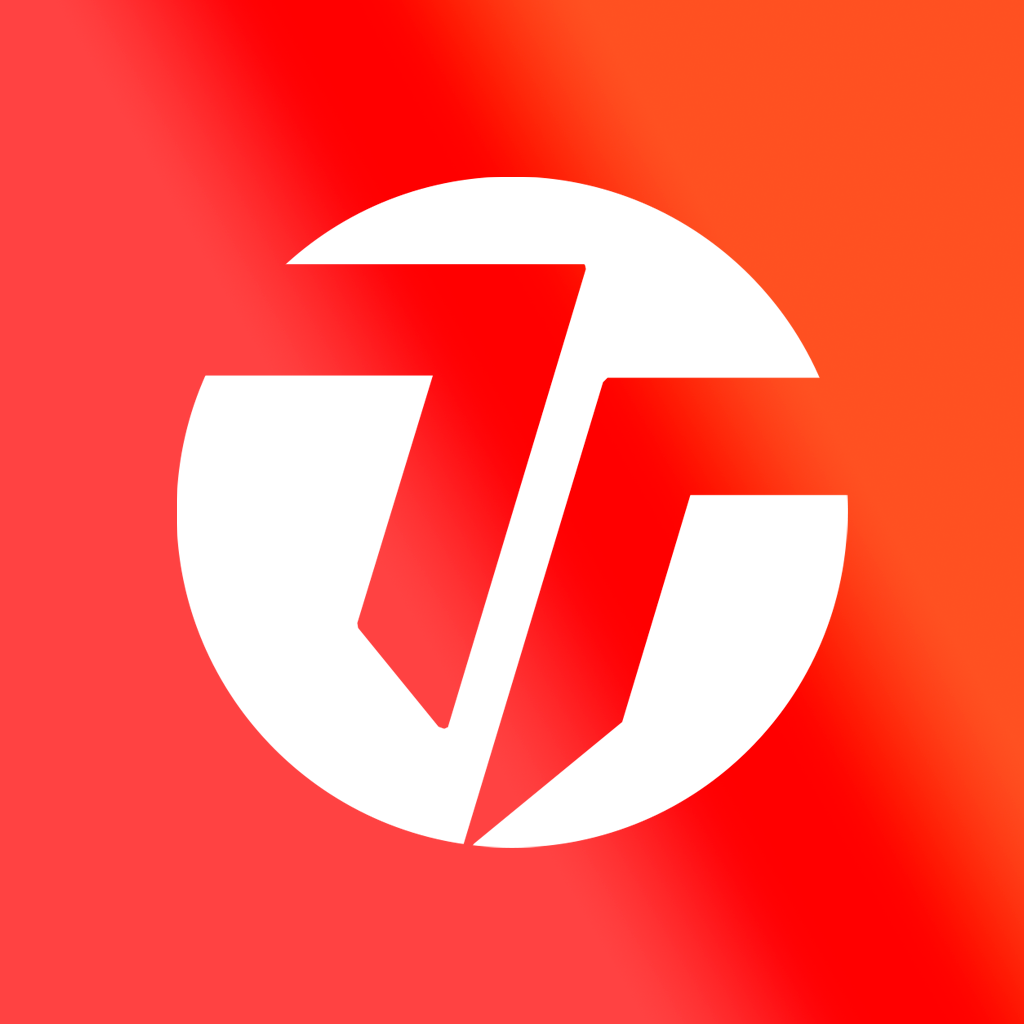
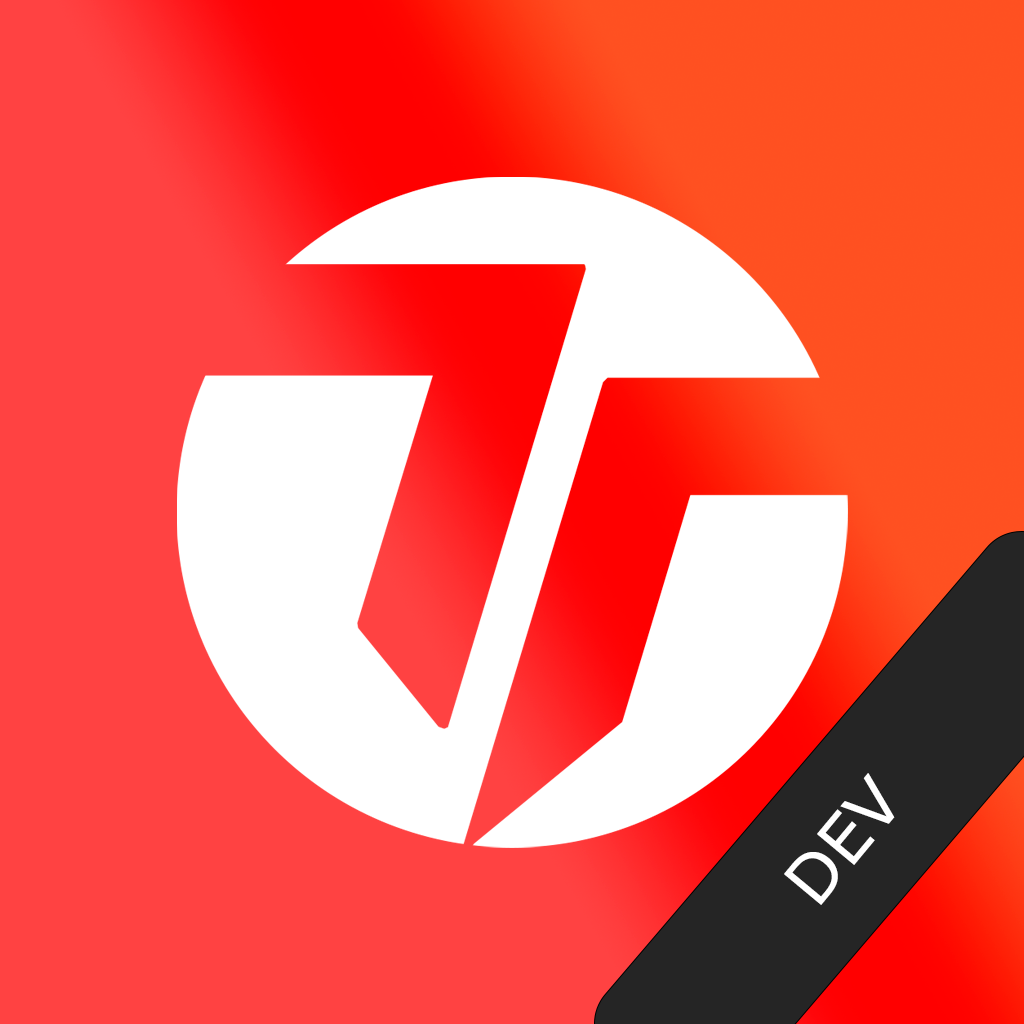
errors

Changed region(s): [[0.5625, 0.5, 1.0, 1.0]]

diff --git a/src/shared/utils/errorUtils.ts b/src/shared/utils/errorUtils.ts
@@ -31,7 +31,20 @@ export enum ErrorCode {
   VALIDATION_PASSWORD_TOO_SHORT = 'VALIDATION_PASSWORD_TOO_SHORT',
   VALIDATION_PASSWORD_TOO_WEAK = 'VALIDATION_PASSWORD_TOO_WEAK',
 
+  // File Upload
+  FILE_NOT_FOUND = 'FILE_NOT_FOUND',
+  FILE_UPLOAD_FAILED = 'FILE_UPLOAD_FAILED',
+  FILE_DELETE_FAILED = 'FILE_DELETE_FAILED',
+  FILE_ACCESS_DENIED = 'FILE_ACCESS_DENIED',
+  FILE_INVALID_TYPE = 'FILE_INVALID_TYPE',
+  FILE_TOO_LARGE = 'FILE_TOO_LARGE',
+  FILE_NO_FILE_PROVIDED = 'FILE_NO_FILE_PROVIDED',
+  FILE_INVALID_FORMAT = 'FILE_INVALID_FORMAT',
+  FILE_THUMBNAIL_NOT_AVAILABLE = 'FILE_THUMBNAIL_NOT_AVAILABLE',
+
   // General
+  AUTH_UNAUTHORIZED = 'AUTH_UNAUTHORIZED',
+  BAD_REQUEST = 'BAD_REQUEST',
   INTERNAL_SERVER_ERROR = 'INTERNAL_SERVER_ERROR',
   USER_NOT_FOUND = 'USER_NOT_FOUND',
 }
@@ -62,7 +75,20 @@ const errorMessages: Record<ErrorCode, string> = {
   [ErrorCode.VALIDATION_PASSWORD_TOO_SHORT]: 'Пароль слишком короткий',
   [ErrorCode.VALIDATION_PASSWORD_TOO_WEAK]: 'Пароль слишком слабый. Используйте буквы, цифры и специальные символы.',
 
+  // File Upload
+  [ErrorCode.FILE_NOT_FOUND]: 'Файл не найден',
+  [ErrorCode.FILE_UPLOAD_FAILED]: 'Не удалось загрузить файл. Попробуйте еще раз.',
+  [ErrorCode.FILE_DELETE_FAILED]: 'Не удалось удалить файл',
+  [ErrorCode.FILE_ACCESS_DENIED]: 'Доступ к файлу запрещен',
+  [ErrorCode.FILE_INVALID_TYPE]: 'Недопустимый тип файла',
+  [ErrorCode.FILE_TOO_LARGE]: 'Файл слишком большой',
+  [ErrorCode.FILE_NO_FILE_PROVIDED]: 'Файл не выбран',
+  [ErrorCode.FILE_INVALID_FORMAT]: 'Неверный формат файла',
+  [ErrorCode.FILE_THUMBNAIL_NOT_AVAILABLE]: 'Миниатюра недоступна',
+
   // General
+  [ErrorCode.AUTH_UNAUTHORIZED]: 'Требуется авторизация',
+  [ErrorCode.BAD_REQUEST]: 'Неверный запрос',
   [ErrorCode.INTERNAL_SERVER_ERROR]: 'Внутренняя ошибка сервера. Попробуйте позже.',
   [ErrorCode.USER_NOT_FOUND]: 'Пользователь не найден',
 };
@@ -168,4 +194,42 @@ export function requiresPasskeyOnly(error: ApiError): boolean {
  */
 export function isSuperAdminWebOnly(error: ApiError): boolean {
   return isErrorCode(error, ErrorCode.AUTH_SUPER_ADMIN_WEB_ONLY);
+}
+
+/**
+ * Форматировать ошибку загрузки файла с учетом metadata
+ */
+export function formatFileUploadError(error: ApiError): string {
+  const errorCode = extractErrorCode(error);
+  let message = getErrorMessage(errorCode || '');
+
+  // Если есть metadata, добавляем дополнительную информацию
+  if (error.details && typeof error.details === 'object' && 'metadata' in error.details) {
+    const errorResponse = error.details as APIErrorResponse;
+    const metadata = errorResponse.metadata;
+
+    if (metadata) {
+      // Для ошибки FILE_TOO_LARGE показываем максимальный размер
+      if (errorCode === ErrorCode.FILE_TOO_LARGE && metadata.max_size_mb) {
+        message += ` Максимальный размер: ${metadata.max_size_mb} МБ`;
+      }
+
+      // Для ошибки FILE_INVALID_TYPE показываем разрешенные типы
+      if (errorCode === ErrorCode.FILE_INVALID_TYPE && metadata.allowed_types) {
+        const types = Array.isArray(metadata.allowed_types)
+          ? metadata.allowed_types.join(', ')
+          : metadata.allowed_types;
+        message += ` Разрешенные типы: ${types}`;
+      }
+    }
+  }
+
+  // Если есть field errors, показываем первую ошибку
+  const fieldErrors = extractFieldErrors(error);
+  if (fieldErrors.length > 0) {
+    const firstFieldError = fieldErrors[0];
+    message = firstFieldError.message || message;
+  }
+
+  return message;
 }

diff --git a/src/api/fileApi.ts b/src/api/fileApi.ts
@@ -2,6 +2,7 @@ import { API_BASE_URL } from '../shared/constants/api.constants';
 import * as secureStorage from '../shared/utils/secureStorage';
 import { STORAGE_KEYS } from '../shared/constants/app.constants';
 import { Platform } from 'react-native';
+import { ApiError, APIErrorResponse } from '@types/common.types';
 
 export interface FileUploadResponse {
   id: number;
@@ -111,34 +112,64 @@ class FileApi {
             const response = JSON.parse(xhr.responseText);
             resolve(response);
           } catch (error) {
-            reject(new Error('Failed to parse response'));
+            const apiError: ApiError = {
+              message: 'Failed to parse response',
+              status: xhr.status,
+            };
+            reject(apiError);
           }
         } else {
-          // Log full error response
-          console.error('Upload failed:', {
-            status: xhr.status,
-            statusText: xhr.statusText,
-            response: xhr.responseText
-          });
-          let errorMessage = `Upload failed with status ${xhr.status}`;
+          // Parse structured error response
           try {
-            const errorResponse = JSON.parse(xhr.responseText);
-            if (errorResponse.error) {
-              errorMessage += `: ${errorResponse.error}`;
-            }
+            const errorResponse: APIErrorResponse = JSON.parse(xhr.responseText);
+
+            // Create structured ApiError
+            const apiError: ApiError = {
+              message: errorResponse.error || `Upload failed with status ${xhr.status}`,
+              status: xhr.status,
+              error_code: errorResponse.error_code,
+              request_id: errorResponse.request_id,
+              fields: errorResponse.fields,
+              details: errorResponse,
+            };
+
+            console.error('[FileApi] Upload failed:', {
+              status: xhr.status,
+              error_code: errorResponse.error_code,
+              request_id: errorResponse.request_id,
+              message: errorResponse.error,
+            });
+
+            reject(apiError);
           } catch (e) {
-            // Unable to parse error response
+            // Unable to parse error response - create basic error
+            const apiError: ApiError = {
+              message: `Upload failed with status ${xhr.status}`,
+              status: xhr.status,
+            };
+            console.error('[FileApi] Upload failed (unparseable error):', {
+              status: xhr.status,
+              statusText: xhr.statusText,
+            });
+            reject(apiError);
           }
-          reject(new Error(errorMessage));
         }
       });
 
       xhr.addEventListener('error', () => {
-        reject(new Error('Network error during upload'));
+        const apiError: ApiError = {
+          message: 'Network error during upload',
+          status: 0,
+        };
+        reject(apiError);
       });
 
       xhr.addEventListener('abort', () => {
-        reject(new Error('Upload aborted'));
+        const apiError: ApiError = {
+          message: 'Upload aborted',
+          status: 0,
+        };
+        reject(apiError);
       });
 
       xhr.open('POST', `${this.baseUrl}/upload`);

diff --git a/src/features/chat/components/attachments/FileAttachmentPicker.tsx b/src/features/chat/components/attachments/FileAttachmentPicker.tsx
@@ -16,6 +16,9 @@ import * as ImagePicker from 'expo-image-picker';
 import { fileApi, FileUploadResponse } from '@api/fileApi';
 import { useTheme } from '@shared/hooks/useTheme';
 import { useActionModal } from '@shared/contexts/ActionModalContext';
+import { useInAppNotificationStore } from '@shared/store/inAppNotificationStore';
+import { formatFileUploadError } from '@shared/utils/errorUtils';
+import { ApiError } from '@types/common.types';
 
 interface FileAttachmentPickerProps {
   onFilesSelected: (fileIds: number[]) => void;
@@ -28,9 +31,39 @@ export const FileAttachmentPicker: React.FC<FileAttachmentPickerProps> = ({
 }) => {
   const { theme } = useTheme();
   const { showOptions } = useActionModal();
+  const showNotification = useInAppNotificationStore((state) => state.showNotification);
   const [uploading, setUploading] = useState(false);
   const [progress, setProgress] = useState<number>(0);
   const [showMenu, setShowMenu] = useState(false);
+
+  /**
+   * Helper function to show error notification
+   */
+  const showErrorToast = (error: unknown, fallbackMessage: string) => {
+    let errorMessage = fallbackMessage;
+
+    // If it's a structured ApiError, format it properly
+    if (error && typeof error === 'object' && ('error_code' in error || 'details' in error)) {
+      errorMessage = formatFileUploadError(error as ApiError);
+    } else if (error instanceof Error) {
+      errorMessage = error.message || fallbackMessage;
+    }
+
+    // Show toast notification
+    showNotification({
+      id: Date.now(),
+      user_id: 0,
+      type: 'system',
+      title: 'Ошибка загрузки',
+      message: errorMessage,
+      is_read: false,
+      priority: 'high',
+      created_at: new Date().toISOString(),
+    });
+
+    // Call legacy onError callback if provided
+    onError?.(errorMessage);
+  };
 
   const handleCameraPick = async () => {
 
@@ -38,7 +71,7 @@ export const FileAttachmentPicker: React.FC<FileAttachmentPickerProps> = ({
       const permission = await ImagePicker.requestCameraPermissionsAsync();
 
       if (!permission.granted) {
-        onError?.('Нужно разрешение для доступа к камере');
+        showErrorToast(new Error('Нужно разрешение для доступа к камере'), 'Нужно разрешение для доступа к камере');
         return;
       }
 
@@ -70,7 +103,7 @@ export const FileAttachmentPicker: React.FC<FileAttachmentPickerProps> = ({
         await uploadFiles(fileObjects);
       }
     } catch (error) {
-      onError?.('Ошибка при съемке фото: ' + (error as Error).message);
+      showErrorToast(error, 'Ошибка при съемке фото');
     }
   };
 
@@ -80,7 +113,7 @@ export const FileAttachmentPicker: React.FC<FileAttachmentPickerProps> = ({
       const permission = await ImagePicker.requestMediaLibraryPermissionsAsync();
 
       if (!permission.granted) {
-        onError?.('Нужно разрешение для доступа к галерее');
+        showErrorToast(new Error('Нужно разрешение для доступа к галерее'), 'Нужно разрешение для доступа к галерее');
         return;
       }
 
@@ -115,7 +148,7 @@ export const FileAttachmentPicker: React.FC<FileAttachmentPickerProps> = ({
         await uploadFiles(fileObjects);
       }
     } catch (error) {
-      onError?.('Ошибка при выборе изображения: ' + (error as Error).message);
+      showErrorToast(error, 'Ошибка при выборе изображения');
     }
   };
 
@@ -205,7 +238,7 @@ export const FileAttachmentPicker: React.FC<FileAttachmentPickerProps> = ({
         })));
       }
     } catch (error) {
-      onError?.('Ошибка при выборе документа');
+      showErrorToast(error, 'Ошибка при выборе документа');
     }
   };
 
@@ -245,7 +278,7 @@ export const FileAttachmentPicker: React.FC<FileAttachmentPickerProps> = ({
       const fileIds = uploadedFiles.map(f => f.id);
       onFilesSelected(fileIds);
     } catch (error) {
-      onError?.('Ошибка при загрузке файлов: ' + (error as Error).message);
+      showErrorToast(error, 'Ошибка при загрузке файлов');
     } finally {
       setUploading(false);
       setProgress(0);